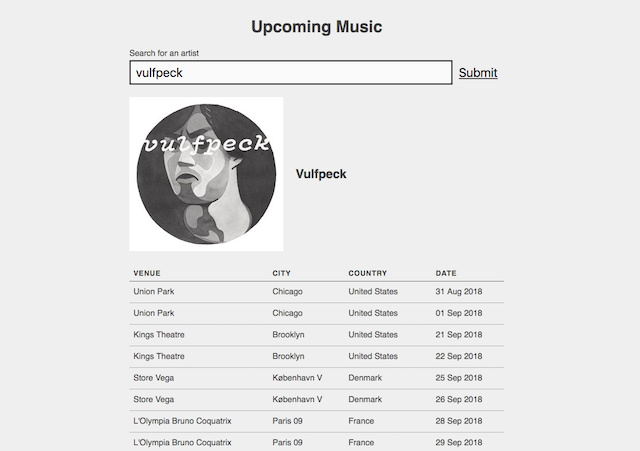
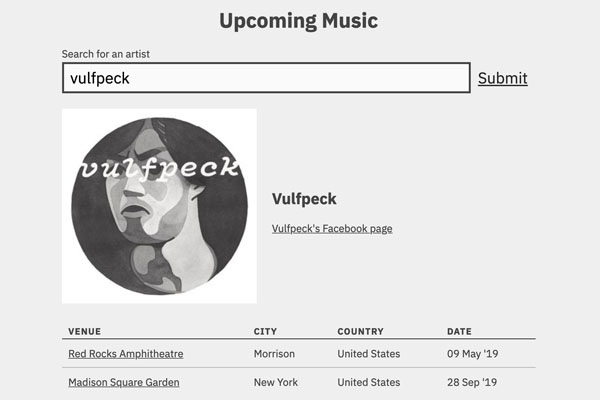
width adjustments

diff --git a/app/css/main.css b/app/css/main.css
@@ -1,1 +1,1 @@
-a,abbr,acronym,address,applet,article,aside,audio,b,big,blockquote,body,canvas,caption,center,cite,code,dd,del,details,dfn,div,dl,dt,em,embed,fieldset,figcaption,figure,footer,form,h1,h2,h3,h4,h5,h6,header,hgroup,html,i,iframe,img,ins,kbd,label,legend,li,mark,menu,nav,object,ol,output,p,pre,q,ruby,s,samp,section,small,span,strike,strong,sub,summary,sup,table,tbody,td,tfoot,th,thead,time,tr,tt,u,ul,var,video{margin:0;padding:0;border:0;font:inherit;font-size:100%;vertical-align:baseline}html{line-height:1}ol,ul{list-style:none}table{border-collapse:collapse;border-spacing:0}caption,td,th{text-align:left;font-weight:400;vertical-align:middle}blockquote,q{quotes:none}blockquote:after,blockquote:before,q:after,q:before{content:"";content:none}a img{border:none}article,aside,details,figcaption,figure,footer,header,hgroup,main,menu,nav,section,summary{display:block}body{font-family:'Source Code Pro',monospace;font-size:100%;line-height:1.5em;margin:2em}h1{font-size:1.5em;line-height:1em;margin-bottom:.75em;width:100%}nav{display:flex;flex-direction:column;flex-wrap:wrap;margin:0 0 2em;position:fixed}@media (max-width:1221px){nav{flex-direction:row;position:relative}}nav a{color:#00e;font-weight:600;margin-bottom:.2em;margin-right:.75em;font-size:1.15em}nav .active{color:#551a8b}.dev-gallery{display:flex;flex-wrap:wrap;justify-content:space-between;margin:0 auto;max-width:800px;width:100%}@media (min-width:1650px){.dev-gallery{max-width:1200px}}@media (max-width:1221px){.dev-gallery{margin:0}}.dev-gallery .gallery-item{max-width:378px;margin-bottom:2.5em}@media (max-width:1221px){.dev-gallery .gallery-item{max-width:300px}}@media (max-width:767px){.dev-gallery .gallery-item{width:100%;max-width:none}}.dev-gallery .gallery-img-wrapper{height:252px;overflow:hidden;margin-bottom:.35em}@media (max-width:1221px){.dev-gallery .gallery-img-wrapper{height:200px}}@media (max-width:767px){.dev-gallery .gallery-img-wrapper{height:auto}}.dev-gallery .gallery-img-wrapper img{width:100%;height:100%}.dev-gallery .desc-item a{color:#00e}.dev-gallery::after{content:'';margin-right:378px}.photo-gallery{margin:0 auto;max-width:650px;width:100%}@media (min-width:1650px){.photo-gallery{max-width:850px}}@media (max-width:1221px){.photo-gallery{max-width:100%}}.photo-gallery .group-title{font-weight:600;text-transform:uppercase}.photo-gallery .group-title:first-of-type{padding-top:.25em}@media (max-width:1221px){.photo-gallery .group-title:first-of-type{padding-top:0}}.photo-gallery .group-desc{font-weight:300;margin-bottom:1em}.photo-gallery .gallery-item{margin-bottom:3em}.photo-gallery .gallery-img-wrapper{line-height:0;margin-bottom:.5em}.photo-gallery .gallery-img-wrapper img{width:100%;height:100%}.photo-gallery .gallery-img-wrapper .lazyload,.photo-gallery .gallery-img-wrapper .lazyloading{opacity:0}.photo-gallery .gallery-img-wrapper .lazyloaded{opacity:1;transition:opacity .5s}.photo-gallery .caption{text-align:center}.about-text{margin:0 auto 2em;max-width:600px;padding-top:.25em}@media (max-width:1221px){.about-text{margin:0 0 2em;padding-top:0}}.about-text a{color:#00e}strong{font-weight:600}
+a,abbr,acronym,address,applet,article,aside,audio,b,big,blockquote,body,canvas,caption,center,cite,code,dd,del,details,dfn,div,dl,dt,em,embed,fieldset,figcaption,figure,footer,form,h1,h2,h3,h4,h5,h6,header,hgroup,html,i,iframe,img,ins,kbd,label,legend,li,mark,menu,nav,object,ol,output,p,pre,q,ruby,s,samp,section,small,span,strike,strong,sub,summary,sup,table,tbody,td,tfoot,th,thead,time,tr,tt,u,ul,var,video{margin:0;padding:0;border:0;font:inherit;font-size:100%;vertical-align:baseline}html{line-height:1}ol,ul{list-style:none}table{border-collapse:collapse;border-spacing:0}caption,td,th{text-align:left;font-weight:400;vertical-align:middle}blockquote,q{quotes:none}blockquote:after,blockquote:before,q:after,q:before{content:"";content:none}a img{border:none}article,aside,details,figcaption,figure,footer,header,hgroup,main,menu,nav,section,summary{display:block}body{font-family:'Source Code Pro',monospace;font-size:100%;line-height:1.5em;margin:2em}h1{font-size:1.5em;line-height:1em;margin-bottom:.75em;width:100%}nav{display:flex;flex-direction:column;flex-wrap:wrap;margin:0 0 2em;position:fixed}@media (max-width:1221px){nav{flex-direction:row;position:relative}}nav a{color:#00e;font-weight:600;margin-bottom:.2em;margin-right:.75em;font-size:1.15em}nav .active{color:#551a8b}.dev-gallery{display:flex;flex-wrap:wrap;justify-content:space-between;margin:0 auto;max-width:800px;width:100%}@media (min-width:1650px){.dev-gallery{max-width:1200px}}@media (max-width:1221px){.dev-gallery{margin:0;max-width:1000px}}.dev-gallery .gallery-item{max-width:47.5%;margin-bottom:2.5em}@media (max-width:1221px){.dev-gallery .gallery-item{max-width:31%}}@media (max-width:767px){.dev-gallery .gallery-item{width:100%;max-width:none}}.dev-gallery .gallery-img-wrapper{overflow:hidden;margin-bottom:.35em}.dev-gallery .gallery-img-wrapper img{width:100%;height:100%}.dev-gallery .desc-item a{color:#00e}.dev-gallery::after{content:'';margin-right:378px}.photo-gallery{margin:0 auto;max-width:650px;width:100%}@media (min-width:1650px){.photo-gallery{max-width:850px}}@media (max-width:1221px){.photo-gallery{max-width:100%}}.photo-gallery .group-title{font-weight:600;text-transform:uppercase}.photo-gallery .group-title:first-of-type{padding-top:.25em}@media (max-width:1221px){.photo-gallery .group-title:first-of-type{padding-top:0}}.photo-gallery .group-desc{font-weight:300;margin-bottom:1em}.photo-gallery .gallery-item{margin-bottom:3em}.photo-gallery .gallery-img-wrapper{line-height:0;margin-bottom:.5em}.photo-gallery .gallery-img-wrapper img{width:100%;height:100%}.photo-gallery .gallery-img-wrapper .lazyload,.photo-gallery .gallery-img-wrapper .lazyloading{opacity:0}.photo-gallery .gallery-img-wrapper .lazyloaded{opacity:1;transition:opacity .5s}.photo-gallery .caption{text-align:center}.about-text{margin:0 auto 2em;max-width:600px;padding-top:.25em}@media (max-width:1221px){.about-text{margin:0 0 2em;padding-top:0}}.about-text a{color:#00e}strong{font-weight:600}

diff --git a/app/scss/main.scss b/app/scss/main.scss
@@ -69,14 +69,15 @@ nav {
 
   @include breakpoint(medium) {
     margin: 0;
+    max-width: 1000px;
   }
 
   .gallery-item {
-    max-width: 378px;
+    max-width: 47.5%;
     margin-bottom: 2.5em;
 
     @include breakpoint(medium) {
-      max-width: 300px;
+      max-width: 31%;
     }
 
     @include breakpoint(small) {
@@ -86,17 +87,8 @@ nav {
   }
 
   .gallery-img-wrapper {
-    height: 252px;
     overflow: hidden;
     margin-bottom: 0.35em;
-
-    @include breakpoint(medium) {
-      height: 200px;
-    }
-
-    @include breakpoint(small) {
-      height: auto;
-    }
 
     img {
       width: 100%;
